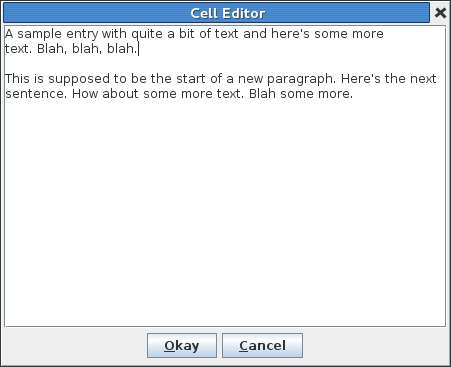
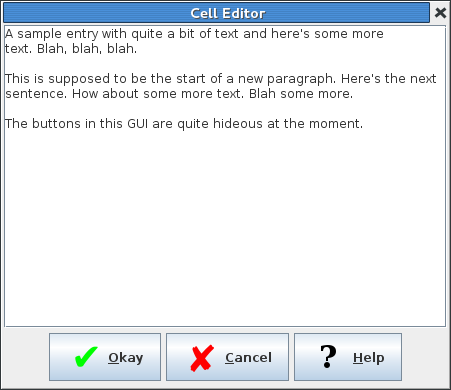
Modified action buttons
Action buttons now check to see if there is an associated image file
to use as an icon.

diff --git a/src/java/gui/DatatoolGuiResources.java b/src/java/gui/DatatoolGuiResources.java
@@ -58,51 +58,47 @@ public class DatatoolGuiResources
 
     public static JButton createOkayButton(ActionListener listener)
     {
-       return createOkayButton(listener, null);
-    }
-
-    public static JButton createOkayButton(ActionListener listener, String tooltipText)
-    {
-       return createActionButton(
-          DatatoolTk.getLabel("button.okay"),
-          DatatoolTk.getMnemonic("button.okay"),
-          "okay", listener,
-          KeyStroke.getKeyStroke(KeyEvent.VK_ENTER, 0), tooltipText);
-    }
-
-    public static JButton createCloseButton(ActionListener listener)
-    {
-       return createCloseButton(listener, null);
-    }
-
-    public static JButton createCloseButton(ActionListener listener, String tooltipText)
-    {
-       return createActionButton(
-          DatatoolTk.getLabel("button.close"),
-          DatatoolTk.getMnemonic("button.close"),
-          "okay", listener,
-          KeyStroke.getKeyStroke(KeyEvent.VK_ENTER, 0), tooltipText);
+       return createActionButton("button", "okay", 
+          listener, KeyStroke.getKeyStroke(KeyEvent.VK_ENTER, 0));
     }
 
     public static JButton createCancelButton(ActionListener listener)
     {
-       return createCancelButton(listener, null);
+       return createActionButton("button", "cancel", listener,
+          KeyStroke.getKeyStroke(KeyEvent.VK_ESCAPE, 0));
     }
 
-    public static JButton createCancelButton(ActionListener listener, String tooltipText)
+    public static JButton createActionButton(String parent, String label, 
+      ActionListener listener, KeyStroke keyStroke)
     {
-       return createActionButton(
-          DatatoolTk.getLabel("button.cancel"),
-          DatatoolTk.getMnemonic("button.cancel"),
-          "cancel", listener,
-          KeyStroke.getKeyStroke(KeyEvent.VK_ESCAPE, 0), tooltipText);
+       return createActionButton(parent, label, listener, keyStroke,
+         DatatoolTk.getToolTip(parent, label));
     }
 
-    public static JButton createActionButton(String label, char mnemonic,
-      String actionCommand, ActionListener listener, KeyStroke keyStroke, 
+    public static JButton createActionButton(String parent, String label, 
+      ActionListener listener, KeyStroke keyStroke,
       String tooltipText)
     {
-       JButton button = new JButton(label);
+       String buttonLabel = DatatoolTk.getLabel(parent, label);
+       char mnemonic = DatatoolTk.getMnemonic(parent, label);
+       String actionCommand = label;
+
+       // Is there an associated image?
+
+       URL imageURL = DatatoolTk.class.getResource(
+          "/resources/icons/"+label+".png");
+
+       JButton button;
+
+       if (imageURL == null)
+       {
+          button = new JButton(buttonLabel);
+       }
+       else
+       {
+          button = new JButton(buttonLabel, new ImageIcon(imageURL));
+       }
+
        button.setMnemonic(mnemonic);
 
        if (listener != null)
@@ -115,7 +111,8 @@ public class DatatoolGuiResources
 
              if (keyStroke != null)
              {
-                button.registerKeyboardAction(listener, actionCommand, keyStroke,
+                button.registerKeyboardAction(listener,
+                  actionCommand, keyStroke,
                   JComponent.WHEN_IN_FOCUSED_WINDOW);
              }
           }

diff --git a/src/java/gui/ErrorPanel.java b/src/java/gui/ErrorPanel.java
@@ -48,11 +48,8 @@ public class ErrorPanel extends JPanel
       JPanel buttonPanel = new JPanel();
 
       buttonPanel.add(DatatoolGuiResources.createActionButton(
-         DatatoolTk.getLabel("button.copy"),
-         DatatoolTk.getMnemonic("button.copy"),
-         "copy", this,
-         KeyStroke.getKeyStroke(KeyEvent.VK_C, InputEvent.SHIFT_MASK),
-         DatatoolTk.getLabel("button.copy.tooltip")));
+         "button", "copy", this, 
+         KeyStroke.getKeyStroke(KeyEvent.VK_C, InputEvent.SHIFT_MASK)));
 
       add(buttonPanel, "East");
 

diff --git a/src/java/gui/DatatoolGUI.java b/src/java/gui/DatatoolGUI.java
@@ -220,10 +220,8 @@ public class DatatoolGUI extends JFrame
    public JButton createHelpButton(String id)
    {
       JButton button = DatatoolGuiResources.createActionButton(
-         DatatoolTk.getLabel("button.help"),
-         DatatoolTk.getMnemonic("button.help"),
-         null, null, KeyStroke.getKeyStroke(KeyEvent.VK_F1, 0),
-         DatatoolTk.getToolTip("button.help"));
+         "button", "help", null, 
+         KeyStroke.getKeyStroke(KeyEvent.VK_F1, 0));
 
       enableHelpOnButton(button, id);
 
